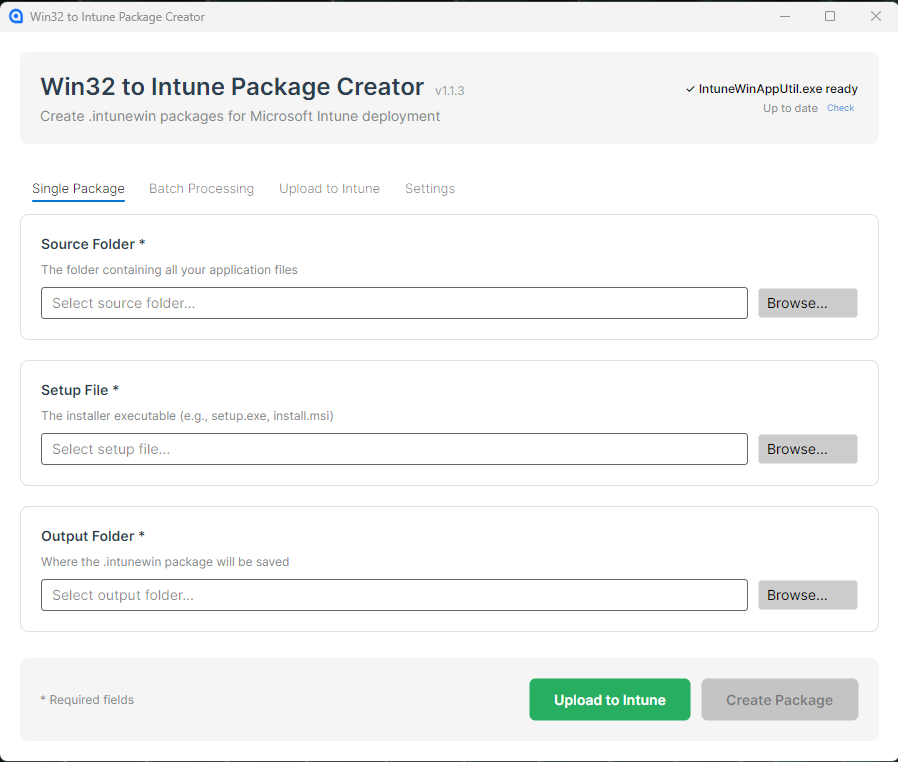
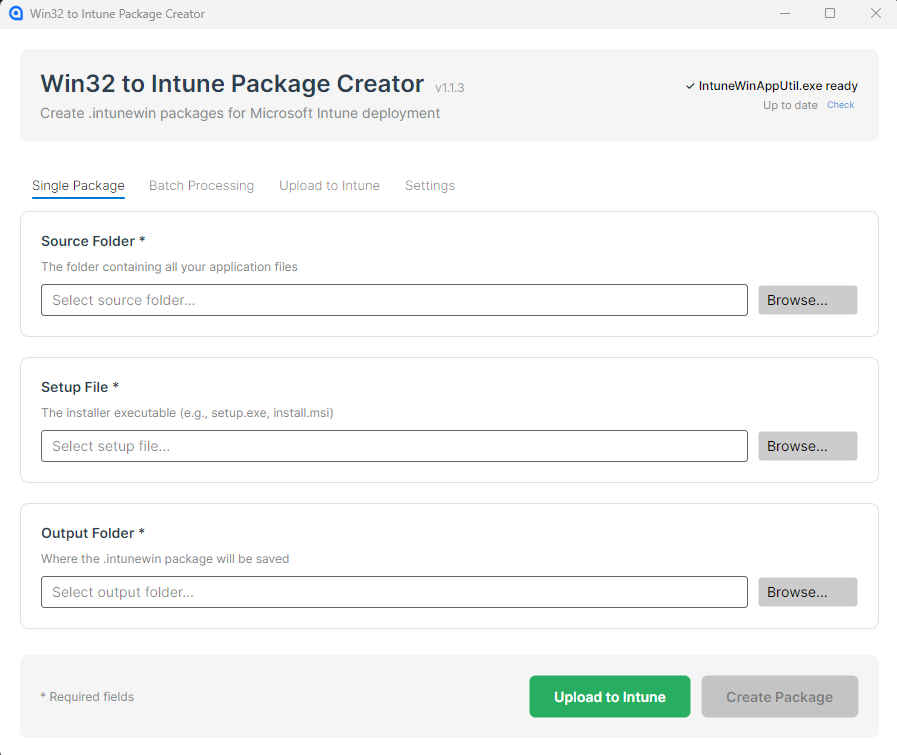
update: readme

diff --git a/README.md b/README.md
@@ -2,8 +2,6 @@
 
 A Windows app for creating `.intunewin` packages and uploading them directly to Microsoft Intune.
 
-![Win32 to Intune](img/screenshot.png)
-
 ## Download
 
 Get the latest release from [GitHub Releases](https://github.com/JohnKesko/Win32-to-IntuneUI/releases):
@@ -18,6 +16,8 @@ Get the latest release from [GitHub Releases](https://github.com/JohnKesko/Win32
 
 Create a single `.intunewin` package:
 
+![Win32 to Intune](img/img01.png)
+
 1. Select **Source Folder** (folder containing your app files)
 2. Select **Setup File** (the installer: .exe, .msi, .cmd, .bat)
 3. Select **Output Folder** (where to save the package)
@@ -26,6 +26,8 @@ Create a single `.intunewin` package:
 ### Batch Processing
 
 Process multiple applications at once:
+
+![Win32 to Intune](img/img02.png)
 
 1. Select a **Parent Folder** containing subfolders (one per app)
 2. Click **Scan Folders** - the app auto-detects installers
@@ -36,6 +38,8 @@ Process multiple applications at once:
 ### Upload to Intune
 
 Upload packages directly to Microsoft Intune:
+
+![Win32 to Intune](img/img03.png)
 
 1. Enter your Azure AD credentials (Tenant ID, Client ID, Client Secret)
 2. Click **Connect** to authenticate
